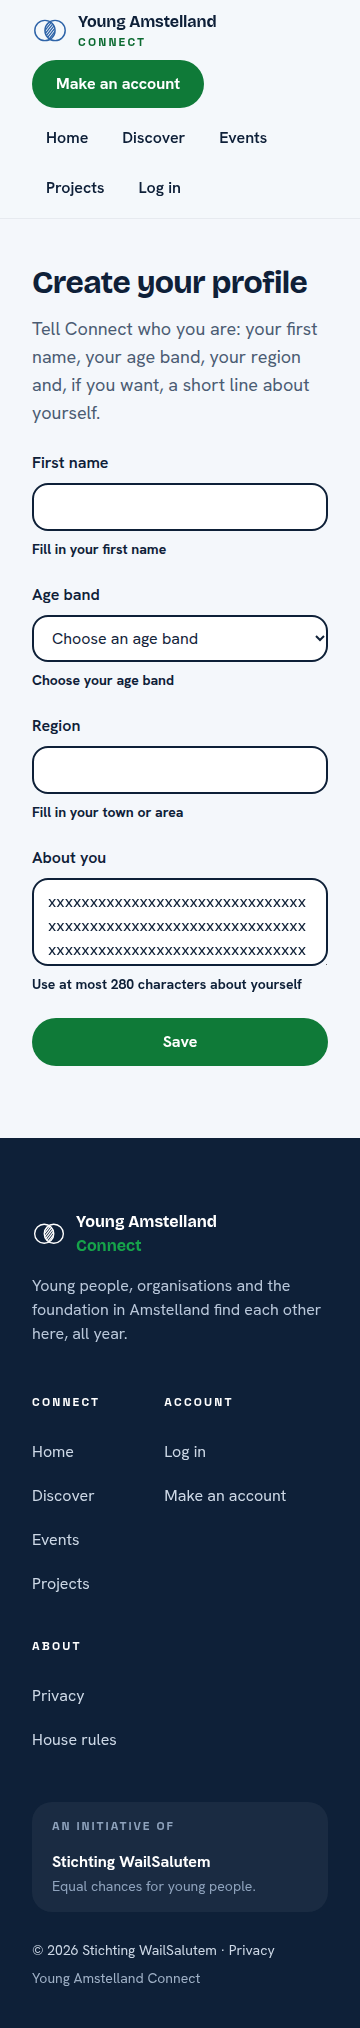
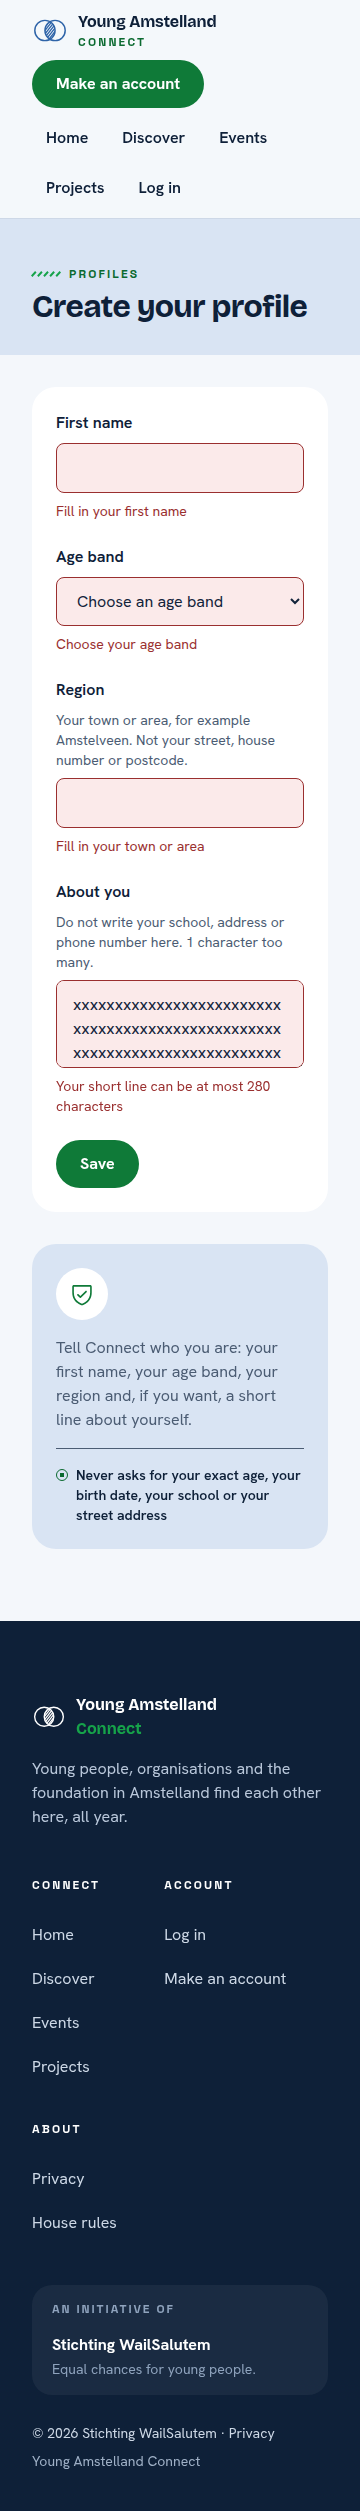
docs(docs): the screenshots as the Figma frame draws the page (#322)

diff --git a/docs/wesley/portfolioProof/task322CreateProfilePage.md b/docs/wesley/portfolioProof/task322CreateProfilePage.md
@@ -10,9 +10,10 @@ A point that needs someone else is marked TODO with who and what.
 School asks: "You design and implement systematically, justify choices in relation to alternatives, and adapt based on new insights."
 
 1. **The four fields and the states.** First name, age band, region and About you. The page has the states empty, busy, wrong fields, already has a profile, not reachable, not logged in and saved. The typed values live in the page itself, so they stay when the server says no or cannot be reached.
-2. **The page does not call the server itself.** `web/src/api/memberProfiles.ts` sends the form and turns every answer into one of five outcomes, and the page only shows them. So the page is tested with a fake, and the address is tested on its own.
-3. **The alternatives I weighed.** A form library such as react-hook-form lost to plain React state, because four fields do not need it, four of us are new to React and a new package is one more thing to learn and to keep safe. One page for making and changing a profile lost to a page of its own, because the edit page of #64 starts from a saved profile and answers differently.
-4. **Log in does not exist yet.** The route `/profile/new` is a plain route until `RequireLogin` of #15 exists, and there is no link from My account yet. Until then the page says who you are with the temporary header of task 7.2, set with `VITE_TEMPORARY_ACCOUNT_ID` in Development only.
+2. **The look of the frame.** The title sits in a band with the eyebrow Profiles, the form in a white card, and beside it a panel that says what Connect never asks for. Each hint sits between its label and its field, a wrong field turns red with its message under it, and a conflict or a lost connection shows a red message above the form.
+3. **The page does not call the server itself.** `web/src/api/memberProfiles.ts` sends the form and turns every answer into one of five outcomes, and the page only shows them. So the page is tested with a fake, and the address is tested on its own.
+4. **The alternatives I weighed.** A form library such as react-hook-form lost to plain React state, because four fields do not need it, four of us are new to React and a new package is one more thing to learn and to keep safe. One page for making and changing a profile lost to a page of its own, because the edit page of #64 starts from a saved profile and answers differently.
+5. **Log in does not exist yet.** The route `/profile/new` is a plain route until `RequireLogin` of #15 exists, and there is no link from My account yet. Until then the page says who you are with the temporary header of task 7.2, set with `VITE_TEMPORARY_ACCOUNT_ID` in Development only.
 - TODO Wesley: what I changed after a teammate used it on a phone.
 
 ## OR3 Involving stakeholders and weighing their feedback
@@ -25,11 +26,13 @@ School asks: "You proactively involve multiple stakeholders with diverse interes
 
 School asks: "You systematically validate that the solution does what it should, and draw conclusions for improvement."
 
-1. **The tests.** `CreateProfile.test.tsx` checks the three age bands with none chosen, the counter, the busy button, the saved message, the field messages with the focus on the first wrong field, already has a profile, not reachable and not logged in with every value kept, and 0 axe problems on the empty form and with field messages. `memberProfiles.test.ts` checks the body and headers that are sent and every answer. 40 tests of the screen pass, and lint, Prettier and the build are clean.
+1. **The tests.** `CreateProfile.test.tsx` checks the three age bands with none chosen, the counter and the characters too many, the busy button, the saved message with See my profile, the field messages with the focus on the first wrong field, the region hint linked to its field, the panel beside the form, the conflict of the server, not reachable and not logged in with every value kept, and 0 axe problems on the empty form and with field messages. `memberProfiles.test.ts` checks the body and headers that are sent and every answer, also the title of a 409. 44 tests of the screen pass, and lint, Prettier and the build are clean.
 2. **In a real browser against the real server.** With the address of task 7.2 running in Development and the temporary account, I filled the page in Chrome at 360 and 1280 pixels wide. An empty form with a bio of 281 characters got the four messages of the server under their fields, with the focus on First name. A valid form saved the profile, with `" Robin "` stored as `Robin`, and a second save showed You already have a profile. axe in the browser, colour contrast included, found 0 problems at both widths in every state.
 3. **A test broken on purpose.** With the line that moves the focus to First name taken out, the test of the field messages failed, and it passed again once the line was put back.
-4. **What I changed after the first run.** An answer that is not JSON now counts as not reachable instead of breaking the page, the counter says 1 character left instead of 1 characters left, and the Save button is as wide as the form, as in the Figma frame.
-5. **What is not covered yet.** 500 characters pasted into About you: the counter goes below zero and the server refuses it with its message, but no test of the page types that much. A message under a field is bold navy text, because the colour tokens have no colour for an error yet.
+4. **What I changed after the first run.** An answer that is not JSON now counts as not reachable instead of breaking the page, and the counter says 1 character left instead of 1 characters left.
+5. **What I changed after checking the Figma frame and the page document.** The first version was one plain column. I compared it with the frame Create your profile and with `docs/pages/CreateProfile.md`, and changed: the band with the eyebrow, the card and the panel beside it, the hints above the fields, the full region hint "Your town or area, for example Amstelveen. Not your street, house number or postcode.", red for a wrong field and for the message above the form, the message above the form as an alert with the title the server sends (so the organisation case of #67 needs no new code), the link See my profile after saving, the message "Your short line can be at most 280 characters" from the page document (in !68), and the counter saying how many characters are too many. The red colours come from the design and are now tokens in `web/src/styles/tokens.css`.
+6. **Where I did not follow the frame, and why.** The borders of the fields are darker than in the frame, because the light line of the frame has a contrast of about 1.4 to 1 with white, and WCAG 2.2 asks 3 to 1 for the border of a field. The panel shows the shield icon the site already has instead of a person icon. The saved message has no drawing yet, because the site has no such picture.
+7. **What is not covered yet.** The question younger than 16 and the address of a parent come with #40 (task 130.5), with the second line of the panel, "Under 16? We ask for a parent's email once, only to ask permission". The message for a street in Region comes with #26. The link from My account and the page behind log in come with #1538.
 
 ![The empty form at 360 pixels](images/task322EmptyForm360.png)
 ![The field messages of the server at 360 pixels](images/task322FieldMessages360.png)
